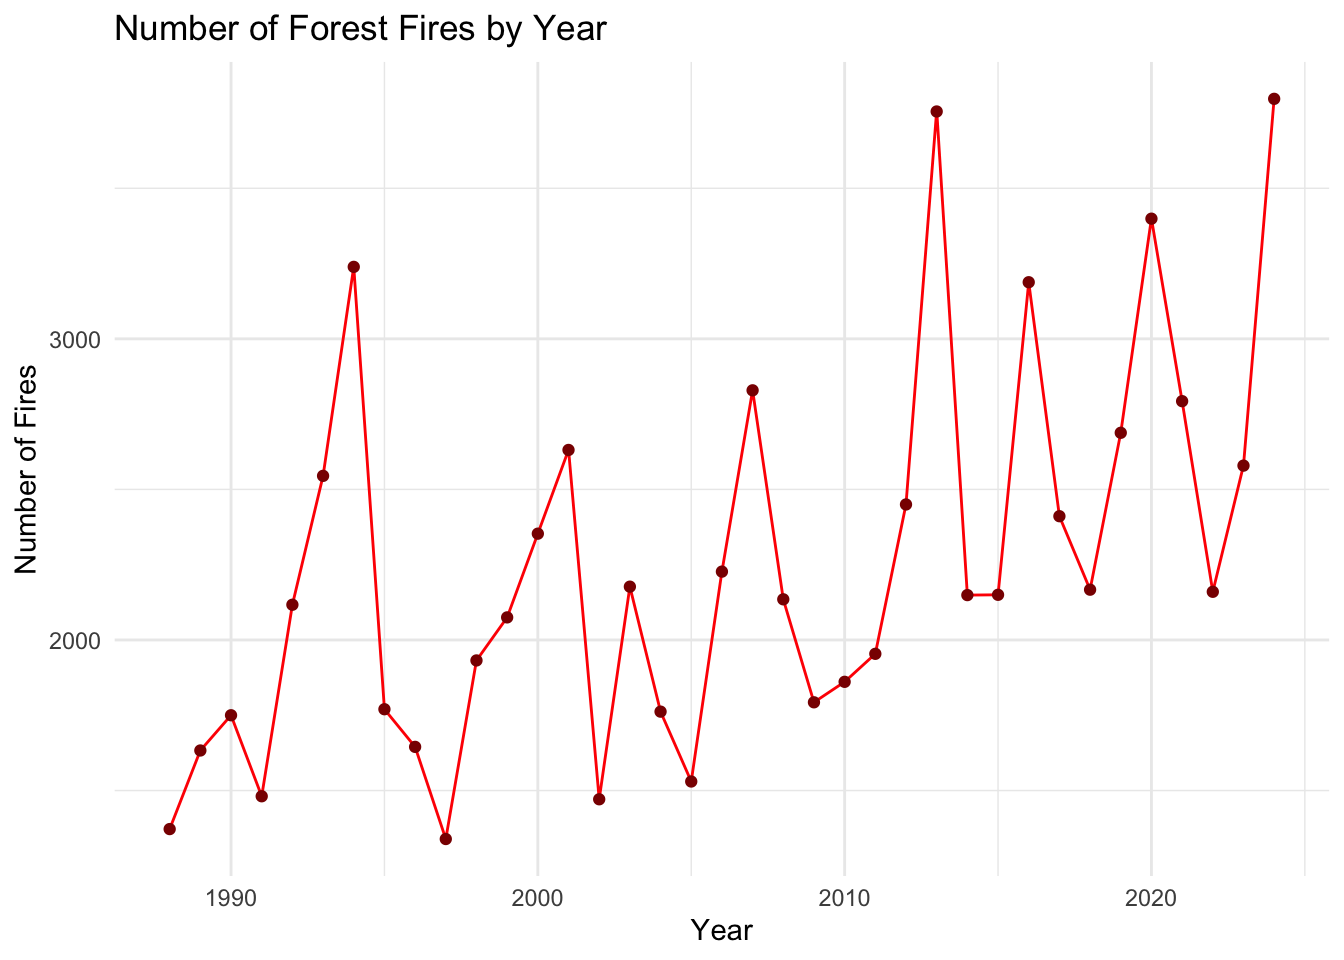
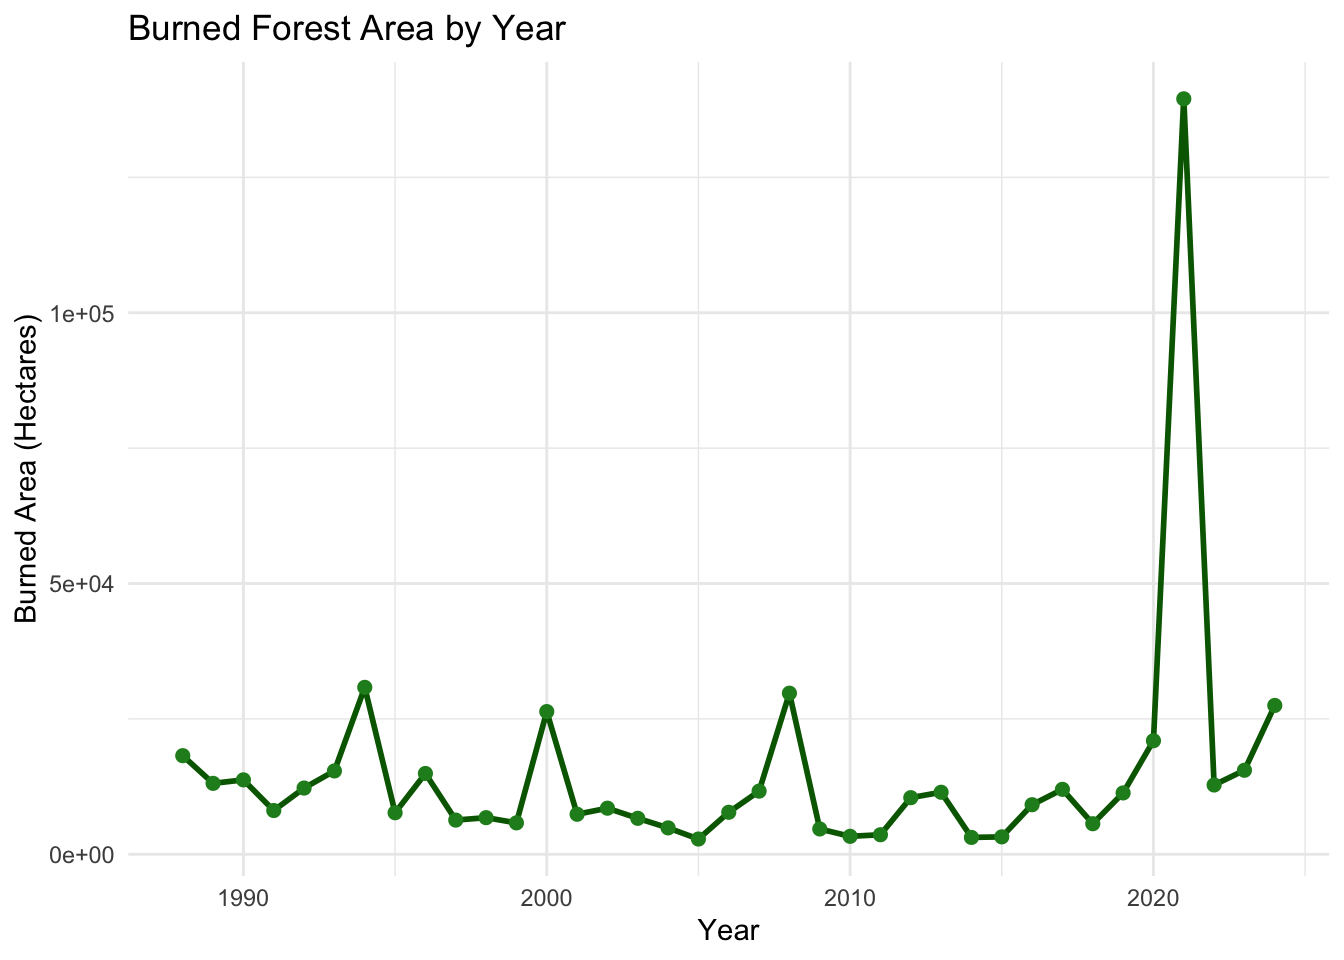
commit

diff --git a/docs/analysis.html b/docs/analysis.html
@@ -325,11 +325,13 @@ pre > code.sourceCode > span > a:first-child::before { text-decoration: underlin
   <li><a href="#analysis-of-forest-fires-in-turkey" id="toc-analysis-of-forest-fires-in-turkey" class="nav-link active" data-scroll-target="#analysis-of-forest-fires-in-turkey">Analysis of Forest Fires in Turkey</a></li>
   <li><a href="#key-takeaways" id="toc-key-takeaways" class="nav-link" data-scroll-target="#key-takeaways">Key Takeaways</a></li>
   <li><a href="#load-libraries" id="toc-load-libraries" class="nav-link" data-scroll-target="#load-libraries">Load Libraries</a></li>
-  <li><a href="#import-dataset" id="toc-import-dataset" class="nav-link" data-scroll-target="#import-dataset">Import Dataset</a></li>
-  <li><a href="#rename-columns" id="toc-rename-columns" class="nav-link" data-scroll-target="#rename-columns">Rename Columns</a></li>
+  <li><a href="#import-and-clean-dataset" id="toc-import-and-clean-dataset" class="nav-link" data-scroll-target="#import-and-clean-dataset">Import and Clean Dataset</a></li>
   <li><a href="#number-of-forest-fires-by-year" id="toc-number-of-forest-fires-by-year" class="nav-link" data-scroll-target="#number-of-forest-fires-by-year">Number of Forest Fires by Year</a></li>
   <li><a href="#burned-forest-area-by-year" id="toc-burned-forest-area-by-year" class="nav-link" data-scroll-target="#burned-forest-area-by-year">Burned Forest Area by Year</a></li>
   <li><a href="#relationship-between-fire-numbers-and-burned-area" id="toc-relationship-between-fire-numbers-and-burned-area" class="nav-link" data-scroll-target="#relationship-between-fire-numbers-and-burned-area">Relationship Between Fire Numbers and Burned Area</a></li>
+  <li><a href="#fire-causes-analysis" id="toc-fire-causes-analysis" class="nav-link" data-scroll-target="#fire-causes-analysis">Fire Causes Analysis</a></li>
+  <li><a href="#burned-area-by-fire-cause" id="toc-burned-area-by-fire-cause" class="nav-link" data-scroll-target="#burned-area-by-fire-cause">Burned Area by Fire Cause</a></li>
+  <li><a href="#top-10-years-with-highest-burned-area" id="toc-top-10-years-with-highest-burned-area" class="nav-link" data-scroll-target="#top-10-years-with-highest-burned-area">Top 10 Years with Highest Burned Area</a></li>
   <li><a href="#conclusion" id="toc-conclusion" class="nav-link" data-scroll-target="#conclusion">Conclusion</a></li>
   </ul>
 </nav>
@@ -369,8 +371,9 @@ pre > code.sourceCode > span > a:first-child::before { text-decoration: underlin
 <h1>Key Takeaways</h1>
 <ul>
 <li>Forest fires in Turkey fluctuate significantly over time.</li>
-<li>Certain years experienced extremely high burned forest areas.</li>
+<li>Some years experienced extremely high burned forest areas.</li>
 <li>Burned areas and fire frequency do not always increase together.</li>
+<li>Negligence-related fires constitute a major proportion of forest fire causes.</li>
 <li>Forest fires remain an important environmental issue in Turkey.</li>
 </ul>
 </section>
@@ -410,54 +413,62 @@ The following objects are masked from 'package:stats':
 </div>
 </div>
 </section>
-<section id="import-dataset" class="level1">
-<h1>Import Dataset</h1>
+<section id="import-and-clean-dataset" class="level1">
+<h1>Import and Clean Dataset</h1>
 <div class="cell">
 <details class="code-fold">
 <summary>Code</summary>
 <div class="code-copy-outer-scaffold"><div class="sourceCode cell-code" id="cb5"><pre class="sourceCode r code-with-copy"><code class="sourceCode r"><span id="cb5-1"><a href="#cb5-1" aria-hidden="true" tabindex="-1"></a>fires <span class="ot">&lt;-</span> <span class="fu">read_excel</span>(<span class="st">"forest_fires.xlsx"</span>) <span class="sc">%&gt;%</span></span>
-<span id="cb5-2"><a href="#cb5-2" aria-hidden="true" tabindex="-1"></a>  <span class="fu">clean_names</span>()</span>
-<span id="cb5-3"><a href="#cb5-3" aria-hidden="true" tabindex="-1"></a></span>
-<span id="cb5-4"><a href="#cb5-4" aria-hidden="true" tabindex="-1"></a><span class="fu">names</span>(fires)</span></code></pre></div><button title="Copy to Clipboard" class="code-copy-button"><i class="bi"></i></button></div>
-</details>
-<div class="cell-output cell-output-stdout">
-<pre><code>[1] "year"            "burned_area"     "number_of_fires"</code></pre>
-</div>
-</div>
-</section>
-<section id="rename-columns" class="level1">
-<h1>Rename Columns</h1>
-<div class="cell">
-<details class="code-fold">
-<summary>Code</summary>
-<div class="code-copy-outer-scaffold"><div class="sourceCode cell-code" id="cb7"><pre class="sourceCode r code-with-copy"><code class="sourceCode r"><span id="cb7-1"><a href="#cb7-1" aria-hidden="true" tabindex="-1"></a>fires <span class="ot">&lt;-</span> fires <span class="sc">%&gt;%</span></span>
-<span id="cb7-2"><a href="#cb7-2" aria-hidden="true" tabindex="-1"></a>  <span class="fu">rename</span>(</span>
-<span id="cb7-3"><a href="#cb7-3" aria-hidden="true" tabindex="-1"></a>    <span class="at">year =</span> <span class="dv">1</span>,</span>
-<span id="cb7-4"><a href="#cb7-4" aria-hidden="true" tabindex="-1"></a>    <span class="at">burned_area =</span> <span class="dv">2</span>,</span>
-<span id="cb7-5"><a href="#cb7-5" aria-hidden="true" tabindex="-1"></a>    <span class="at">number_of_fires =</span> <span class="dv">3</span></span>
-<span id="cb7-6"><a href="#cb7-6" aria-hidden="true" tabindex="-1"></a>  )</span>
-<span id="cb7-7"><a href="#cb7-7" aria-hidden="true" tabindex="-1"></a></span>
-<span id="cb7-8"><a href="#cb7-8" aria-hidden="true" tabindex="-1"></a><span class="fu">glimpse</span>(fires)</span></code></pre></div><button title="Copy to Clipboard" class="code-copy-button"><i class="bi"></i></button></div>
+<span id="cb5-2"><a href="#cb5-2" aria-hidden="true" tabindex="-1"></a>  <span class="fu">clean_names</span>() <span class="sc">%&gt;%</span></span>
+<span id="cb5-3"><a href="#cb5-3" aria-hidden="true" tabindex="-1"></a>  <span class="fu">mutate</span>(<span class="fu">across</span>(<span class="fu">everything</span>(), <span class="sc">~</span><span class="fu">na_if</span>(<span class="fu">as.character</span>(.), <span class="st">"-"</span>))) <span class="sc">%&gt;%</span></span>
+<span id="cb5-4"><a href="#cb5-4" aria-hidden="true" tabindex="-1"></a>  <span class="fu">mutate</span>(<span class="fu">across</span>(<span class="fu">everything</span>(), <span class="sc">~</span><span class="fu">as.numeric</span>(<span class="fu">gsub</span>(<span class="st">","</span>, <span class="st">"."</span>, .))))</span>
+<span id="cb5-5"><a href="#cb5-5" aria-hidden="true" tabindex="-1"></a></span>
+<span id="cb5-6"><a href="#cb5-6" aria-hidden="true" tabindex="-1"></a><span class="fu">glimpse</span>(fires)</span></code></pre></div><button title="Copy to Clipboard" class="code-copy-button"><i class="bi"></i></button></div>
 </details>
 <div class="cell-output cell-output-stdout">
 <pre><code>Rows: 37
-Columns: 3
-$ year            &lt;dbl&gt; 1988, 1989, 1990, 1991, 1992, 1993, 1994, 1995, 1996, …
-$ burned_area     &lt;dbl&gt; 18210.0, 13099.0, 13742.0, 8081.0, 12232.0, 15393.0, 3…
-$ number_of_fires &lt;dbl&gt; 1372, 1633, 1750, 1481, 2117, 2545, 3239, 1770, 1645, …</code></pre>
+Columns: 11
+$ year                &lt;dbl&gt; 1988, 1989, 1990, 1991, 1992, 1993, 1994, 1995, 19…
+$ burned_area         &lt;dbl&gt; 18210.0, 13099.0, 13742.0, 8081.0, 12232.0, 15393.…
+$ number_of_fires     &lt;dbl&gt; 1372, 1633, 1750, 1481, 2117, 2545, 3239, 1770, 16…
+$ intentional_number  &lt;dbl&gt; NA, NA, NA, NA, NA, NA, NA, NA, NA, 193, 249, 279,…
+$ intentional_hectare &lt;dbl&gt; NA, NA, NA, NA, NA, NA, NA, NA, NA, 923.00, 1655.0…
+$ negligence_number   &lt;dbl&gt; NA, NA, NA, NA, NA, NA, NA, NA, NA, 696, 1163, 115…
+$ negligence_hectare  &lt;dbl&gt; NA, NA, NA, NA, NA, NA, NA, NA, NA, 3389, 3713, 28…
+$ natural_number      &lt;dbl&gt; NA, NA, NA, NA, NA, NA, NA, NA, NA, 78, 53, 203, 1…
+$ natural_hecatre     &lt;dbl&gt; NA, NA, NA, NA, NA, NA, NA, NA, NA, 37.0, 20.0, 12…
+$ unknown_number      &lt;dbl&gt; NA, NA, NA, NA, NA, NA, NA, NA, NA, 372, 467, 442,…
+$ unknown_hectare     &lt;dbl&gt; NA, NA, NA, NA, NA, NA, NA, NA, NA, 1968.0, 1376.0…</code></pre>
 </div>
 <details class="code-fold">
 <summary>Code</summary>
-<div class="code-copy-outer-scaffold"><div class="sourceCode cell-code" id="cb9"><pre class="sourceCode r code-with-copy"><code class="sourceCode r"><span id="cb9-1"><a href="#cb9-1" aria-hidden="true" tabindex="-1"></a><span class="fu">summary</span>(fires)</span></code></pre></div><button title="Copy to Clipboard" class="code-copy-button"><i class="bi"></i></button></div>
+<div class="code-copy-outer-scaffold"><div class="sourceCode cell-code" id="cb7"><pre class="sourceCode r code-with-copy"><code class="sourceCode r"><span id="cb7-1"><a href="#cb7-1" aria-hidden="true" tabindex="-1"></a><span class="fu">summary</span>(fires)</span></code></pre></div><button title="Copy to Clipboard" class="code-copy-button"><i class="bi"></i></button></div>
 </details>
 <div class="cell-output cell-output-stdout">
-<pre><code>      year       burned_area     number_of_fires
- Min.   :1988   Min.   :  2821   Min.   :1339   
- 1st Qu.:1997   1st Qu.:  6317   1st Qu.:1770   
- Median :2006   Median : 10454   Median :2150   
- Mean   :2006   Mean   : 14949   Mean   :2252   
- 3rd Qu.:2015   3rd Qu.: 14922   3rd Qu.:2579   
- Max.   :2024   Max.   :139503   Max.   :3797   </code></pre>
+<pre><code>      year       burned_area     number_of_fires intentional_number
+ Min.   :1988   Min.   :  2821   Min.   :1339    Min.   : 72.0     
+ 1st Qu.:1997   1st Qu.:  6317   1st Qu.:1770    1st Qu.:127.0     
+ Median :2006   Median : 10454   Median :2150    Median :179.5     
+ Mean   :2006   Mean   : 14949   Mean   :2252    Mean   :195.4     
+ 3rd Qu.:2015   3rd Qu.: 14922   3rd Qu.:2579    3rd Qu.:252.8     
+ Max.   :2024   Max.   :139503   Max.   :3797    Max.   :410.0     
+                                                 NA's   :9         
+ intentional_hectare negligence_number negligence_hectare natural_number 
+ Min.   :   85.0     Min.   : 693.0    Min.   : 1198      Min.   : 53.0  
+ 1st Qu.:  372.0     1st Qu.: 853.2    1st Qu.: 3014      1st Qu.:170.8  
+ Median :  675.5     Median :1009.5    Median : 4871      Median :295.5  
+ Mean   : 2632.7     Mean   :1073.3    Mean   : 7971      Mean   :276.9  
+ 3rd Qu.: 1512.6     3rd Qu.:1201.0    3rd Qu.: 7464      3rd Qu.:354.2  
+ Max.   :46147.0     Max.   :1860.0    Max.   :46879      Max.   :726.0  
+ NA's   :9           NA's   :9         NA's   :9          NA's   :9      
+ natural_hecatre  unknown_number   unknown_hectare  
+ Min.   : 20.00   Min.   : 251.0   Min.   :  287.8  
+ 1st Qu.: 92.25   1st Qu.: 424.2   1st Qu.:  938.5  
+ Median :183.50   Median : 588.5   Median : 1864.5  
+ Mean   :266.11   Mean   : 802.9   Mean   : 4091.5  
+ 3rd Qu.:367.00   3rd Qu.: 997.8   3rd Qu.: 3305.8  
+ Max.   :735.00   Max.   :1859.0   Max.   :46269.0  
+ NA's   :9        NA's   :9        NA's   :9        </code></pre>
 </div>
 </div>
 </section>
@@ -466,15 +477,40 @@ $ number_of_fires &lt;dbl&gt; 1372, 1633, 1750, 1481, 2117, 2545, 3239, 1770, 16
 <div class="cell">
 <details class="code-fold">
 <summary>Code</summary>
-<div class="code-copy-outer-scaffold"><div class="sourceCode cell-code" id="cb11"><pre class="sourceCode r code-with-copy"><code class="sourceCode r"><span id="cb11-1"><a href="#cb11-1" aria-hidden="true" tabindex="-1"></a><span class="fu">ggplot</span>(fires, <span class="fu">aes</span>(<span class="at">x =</span> year, <span class="at">y =</span> number_of_fires)) <span class="sc">+</span></span>
-<span id="cb11-2"><a href="#cb11-2" aria-hidden="true" tabindex="-1"></a>  <span class="fu">geom_line</span>(<span class="at">color =</span> <span class="st">"red"</span>) <span class="sc">+</span></span>
-<span id="cb11-3"><a href="#cb11-3" aria-hidden="true" tabindex="-1"></a>  <span class="fu">geom_point</span>(<span class="at">color =</span> <span class="st">"darkred"</span>) <span class="sc">+</span></span>
-<span id="cb11-4"><a href="#cb11-4" aria-hidden="true" tabindex="-1"></a>  <span class="fu">labs</span>(</span>
-<span id="cb11-5"><a href="#cb11-5" aria-hidden="true" tabindex="-1"></a>    <span class="at">title =</span> <span class="st">"Number of Forest Fires by Year"</span>,</span>
-<span id="cb11-6"><a href="#cb11-6" aria-hidden="true" tabindex="-1"></a>    <span class="at">x =</span> <span class="st">"Year"</span>,</span>
-<span id="cb11-7"><a href="#cb11-7" aria-hidden="true" tabindex="-1"></a>    <span class="at">y =</span> <span class="st">"Number of Fires"</span></span>
-<span id="cb11-8"><a href="#cb11-8" aria-hidden="true" tabindex="-1"></a>  ) <span class="sc">+</span></span>
-<span id="cb11-9"><a href="#cb11-9" aria-hidden="true" tabindex="-1"></a>  <span class="fu">theme_minimal</span>()</span></code></pre></div><button title="Copy to Clipboard" class="code-copy-button"><i class="bi"></i></button></div>
+<div class="code-copy-outer-scaffold"><div class="sourceCode cell-code" id="cb9"><pre class="sourceCode r code-with-copy"><code class="sourceCode r"><span id="cb9-1"><a href="#cb9-1" aria-hidden="true" tabindex="-1"></a><span class="fu">ggplot</span>(fires, <span class="fu">aes</span>(<span class="at">x =</span> year, <span class="at">y =</span> number_of_fires)) <span class="sc">+</span></span>
+<span id="cb9-2"><a href="#cb9-2" aria-hidden="true" tabindex="-1"></a>  <span class="fu">geom_line</span>(<span class="at">color =</span> <span class="st">"red"</span>, <span class="at">linewidth =</span> <span class="dv">1</span>) <span class="sc">+</span></span>
+<span id="cb9-3"><a href="#cb9-3" aria-hidden="true" tabindex="-1"></a>  <span class="fu">geom_point</span>(<span class="at">color =</span> <span class="st">"darkred"</span>, <span class="at">size =</span> <span class="dv">2</span>) <span class="sc">+</span></span>
+<span id="cb9-4"><a href="#cb9-4" aria-hidden="true" tabindex="-1"></a>  <span class="fu">labs</span>(</span>
+<span id="cb9-5"><a href="#cb9-5" aria-hidden="true" tabindex="-1"></a>    <span class="at">title =</span> <span class="st">"Number of Forest Fires by Year"</span>,</span>
+<span id="cb9-6"><a href="#cb9-6" aria-hidden="true" tabindex="-1"></a>    <span class="at">x =</span> <span class="st">"Year"</span>,</span>
+<span id="cb9-7"><a href="#cb9-7" aria-hidden="true" tabindex="-1"></a>    <span class="at">y =</span> <span class="st">"Number of Fires"</span></span>
+<span id="cb9-8"><a href="#cb9-8" aria-hidden="true" tabindex="-1"></a>  ) <span class="sc">+</span></span>
+<span id="cb9-9"><a href="#cb9-9" aria-hidden="true" tabindex="-1"></a>  <span class="fu">theme_minimal</span>()</span></code></pre></div><button title="Copy to Clipboard" class="code-copy-button"><i class="bi"></i></button></div>
+</details>
+<div class="cell-output-display">
+<div>
+<figure class="figure">
+<p><img src="analysis_files/figure-html/unnamed-chunk-3-1.png" class="img-fluid figure-img" width="672"></p>
+</figure>
+</div>
+</div>
+</div>
+<p>The number of forest fires fluctuates considerably across years.</p>
+</section>
+<section id="burned-forest-area-by-year" class="level1">
+<h1>Burned Forest Area by Year</h1>
+<div class="cell">
+<details class="code-fold">
+<summary>Code</summary>
+<div class="code-copy-outer-scaffold"><div class="sourceCode cell-code" id="cb10"><pre class="sourceCode r code-with-copy"><code class="sourceCode r"><span id="cb10-1"><a href="#cb10-1" aria-hidden="true" tabindex="-1"></a><span class="fu">ggplot</span>(fires, <span class="fu">aes</span>(<span class="at">x =</span> year, <span class="at">y =</span> burned_area)) <span class="sc">+</span></span>
+<span id="cb10-2"><a href="#cb10-2" aria-hidden="true" tabindex="-1"></a>  <span class="fu">geom_line</span>(<span class="at">color =</span> <span class="st">"darkgreen"</span>, <span class="at">linewidth =</span> <span class="dv">1</span>) <span class="sc">+</span></span>
+<span id="cb10-3"><a href="#cb10-3" aria-hidden="true" tabindex="-1"></a>  <span class="fu">geom_point</span>(<span class="at">color =</span> <span class="st">"forestgreen"</span>, <span class="at">size =</span> <span class="dv">2</span>) <span class="sc">+</span></span>
+<span id="cb10-4"><a href="#cb10-4" aria-hidden="true" tabindex="-1"></a>  <span class="fu">labs</span>(</span>
+<span id="cb10-5"><a href="#cb10-5" aria-hidden="true" tabindex="-1"></a>    <span class="at">title =</span> <span class="st">"Burned Forest Area by Year"</span>,</span>
+<span id="cb10-6"><a href="#cb10-6" aria-hidden="true" tabindex="-1"></a>    <span class="at">x =</span> <span class="st">"Year"</span>,</span>
+<span id="cb10-7"><a href="#cb10-7" aria-hidden="true" tabindex="-1"></a>    <span class="at">y =</span> <span class="st">"Burned Area (Hectares)"</span></span>
+<span id="cb10-8"><a href="#cb10-8" aria-hidden="true" tabindex="-1"></a>  ) <span class="sc">+</span></span>
+<span id="cb10-9"><a href="#cb10-9" aria-hidden="true" tabindex="-1"></a>  <span class="fu">theme_minimal</span>()</span></code></pre></div><button title="Copy to Clipboard" class="code-copy-button"><i class="bi"></i></button></div>
 </details>
 <div class="cell-output-display">
 <div>
@@ -484,22 +520,21 @@ $ number_of_fires &lt;dbl&gt; 1372, 1633, 1750, 1481, 2117, 2545, 3239, 1770, 16
 </div>
 </div>
 </div>
-<p>The graph shows yearly fluctuations in the number of forest fires in Turkey.</p>
+<p>The burned forest area changes significantly across years. The year 2021 stands out as an extreme year.</p>
 </section>
-<section id="burned-forest-area-by-year" class="level1">
-<h1>Burned Forest Area by Year</h1>
+<section id="relationship-between-fire-numbers-and-burned-area" class="level1">
+<h1>Relationship Between Fire Numbers and Burned Area</h1>
 <div class="cell">
 <details class="code-fold">
 <summary>Code</summary>
-<div class="code-copy-outer-scaffold"><div class="sourceCode cell-code" id="cb12"><pre class="sourceCode r code-with-copy"><code class="sourceCode r"><span id="cb12-1"><a href="#cb12-1" aria-hidden="true" tabindex="-1"></a><span class="fu">ggplot</span>(fires, <span class="fu">aes</span>(<span class="at">x =</span> year, <span class="at">y =</span> burned_area)) <span class="sc">+</span></span>
-<span id="cb12-2"><a href="#cb12-2" aria-hidden="true" tabindex="-1"></a>  <span class="fu">geom_line</span>(<span class="at">color =</span> <span class="st">"darkgreen"</span>) <span class="sc">+</span></span>
-<span id="cb12-3"><a href="#cb12-3" aria-hidden="true" tabindex="-1"></a>  <span class="fu">geom_point</span>(<span class="at">color =</span> <span class="st">"forestgreen"</span>) <span class="sc">+</span></span>
-<span id="cb12-4"><a href="#cb12-4" aria-hidden="true" tabindex="-1"></a>  <span class="fu">labs</span>(</span>
-<span id="cb12-5"><a href="#cb12-5" aria-hidden="true" tabindex="-1"></a>    <span class="at">title =</span> <span class="st">"Burned Forest Area by Year"</span>,</span>
-<span id="cb12-6"><a href="#cb12-6" aria-hidden="true" tabindex="-1"></a>    <span class="at">x =</span> <span class="st">"Year"</span>,</span>
-<span id="cb12-7"><a href="#cb12-7" aria-hidden="true" tabindex="-1"></a>    <span class="at">y =</span> <span class="st">"Burned Area"</span></span>
-<span id="cb12-8"><a href="#cb12-8" aria-hidden="true" tabindex="-1"></a>  ) <span class="sc">+</span></span>
-<span id="cb12-9"><a href="#cb12-9" aria-hidden="true" tabindex="-1"></a>  <span class="fu">theme_minimal</span>()</span></code></pre></div><button title="Copy to Clipboard" class="code-copy-button"><i class="bi"></i></button></div>
+<div class="code-copy-outer-scaffold"><div class="sourceCode cell-code" id="cb11"><pre class="sourceCode r code-with-copy"><code class="sourceCode r"><span id="cb11-1"><a href="#cb11-1" aria-hidden="true" tabindex="-1"></a><span class="fu">ggplot</span>(fires, <span class="fu">aes</span>(<span class="at">x =</span> number_of_fires, <span class="at">y =</span> burned_area)) <span class="sc">+</span></span>
+<span id="cb11-2"><a href="#cb11-2" aria-hidden="true" tabindex="-1"></a>  <span class="fu">geom_point</span>(<span class="at">color =</span> <span class="st">"orange"</span>, <span class="at">size =</span> <span class="dv">3</span>) <span class="sc">+</span></span>
+<span id="cb11-3"><a href="#cb11-3" aria-hidden="true" tabindex="-1"></a>  <span class="fu">labs</span>(</span>
+<span id="cb11-4"><a href="#cb11-4" aria-hidden="true" tabindex="-1"></a>    <span class="at">title =</span> <span class="st">"Relationship Between Fire Numbers and Burned Area"</span>,</span>
+<span id="cb11-5"><a href="#cb11-5" aria-hidden="true" tabindex="-1"></a>    <span class="at">x =</span> <span class="st">"Number of Fires"</span>,</span>
+<span id="cb11-6"><a href="#cb11-6" aria-hidden="true" tabindex="-1"></a>    <span class="at">y =</span> <span class="st">"Burned Area"</span></span>
+<span id="cb11-7"><a href="#cb11-7" aria-hidden="true" tabindex="-1"></a>  ) <span class="sc">+</span></span>
+<span id="cb11-8"><a href="#cb11-8" aria-hidden="true" tabindex="-1"></a>  <span class="fu">theme_minimal</span>()</span></code></pre></div><button title="Copy to Clipboard" class="code-copy-button"><i class="bi"></i></button></div>
 </details>
 <div class="cell-output-display">
 <div>
@@ -509,21 +544,35 @@ $ number_of_fires &lt;dbl&gt; 1372, 1633, 1750, 1481, 2117, 2545, 3239, 1770, 16
 </div>
 </div>
 </div>
-<p>The burned forest area changes significantly across years.</p>
+<p>The relationship between the number of fires and burned area is not perfectly linear.</p>
 </section>
-<section id="relationship-between-fire-numbers-and-burned-area" class="level1">
-<h1>Relationship Between Fire Numbers and Burned Area</h1>
+<section id="fire-causes-analysis" class="level1">
+<h1>Fire Causes Analysis</h1>
 <div class="cell">
 <details class="code-fold">
 <summary>Code</summary>
-<div class="code-copy-outer-scaffold"><div class="sourceCode cell-code" id="cb13"><pre class="sourceCode r code-with-copy"><code class="sourceCode r"><span id="cb13-1"><a href="#cb13-1" aria-hidden="true" tabindex="-1"></a><span class="fu">ggplot</span>(fires, <span class="fu">aes</span>(<span class="at">x =</span> number_of_fires, <span class="at">y =</span> burned_area)) <span class="sc">+</span></span>
-<span id="cb13-2"><a href="#cb13-2" aria-hidden="true" tabindex="-1"></a>  <span class="fu">geom_point</span>(<span class="at">color =</span> <span class="st">"orange"</span>, <span class="at">size =</span> <span class="dv">3</span>) <span class="sc">+</span></span>
-<span id="cb13-3"><a href="#cb13-3" aria-hidden="true" tabindex="-1"></a>  <span class="fu">labs</span>(</span>
-<span id="cb13-4"><a href="#cb13-4" aria-hidden="true" tabindex="-1"></a>    <span class="at">title =</span> <span class="st">"Relationship Between Number of Fires and Burned Area"</span>,</span>
-<span id="cb13-5"><a href="#cb13-5" aria-hidden="true" tabindex="-1"></a>    <span class="at">x =</span> <span class="st">"Number of Fires"</span>,</span>
-<span id="cb13-6"><a href="#cb13-6" aria-hidden="true" tabindex="-1"></a>    <span class="at">y =</span> <span class="st">"Burned Area"</span></span>
-<span id="cb13-7"><a href="#cb13-7" aria-hidden="true" tabindex="-1"></a>  ) <span class="sc">+</span></span>
-<span id="cb13-8"><a href="#cb13-8" aria-hidden="true" tabindex="-1"></a>  <span class="fu">theme_minimal</span>()</span></code></pre></div><button title="Copy to Clipboard" class="code-copy-button"><i class="bi"></i></button></div>
+<div class="code-copy-outer-scaffold"><div class="sourceCode cell-code" id="cb12"><pre class="sourceCode r code-with-copy"><code class="sourceCode r"><span id="cb12-1"><a href="#cb12-1" aria-hidden="true" tabindex="-1"></a>causes <span class="ot">&lt;-</span> fires <span class="sc">%&gt;%</span></span>
+<span id="cb12-2"><a href="#cb12-2" aria-hidden="true" tabindex="-1"></a>  <span class="fu">summarise</span>(</span>
+<span id="cb12-3"><a href="#cb12-3" aria-hidden="true" tabindex="-1"></a>    <span class="at">Intentional =</span> <span class="fu">sum</span>(intentional_number, <span class="at">na.rm =</span> <span class="cn">TRUE</span>),</span>
+<span id="cb12-4"><a href="#cb12-4" aria-hidden="true" tabindex="-1"></a>    <span class="at">Negligence =</span> <span class="fu">sum</span>(negligence_number, <span class="at">na.rm =</span> <span class="cn">TRUE</span>),</span>
+<span id="cb12-5"><a href="#cb12-5" aria-hidden="true" tabindex="-1"></a>    <span class="at">Natural =</span> <span class="fu">sum</span>(natural_number, <span class="at">na.rm =</span> <span class="cn">TRUE</span>),</span>
+<span id="cb12-6"><a href="#cb12-6" aria-hidden="true" tabindex="-1"></a>    <span class="at">Unknown =</span> <span class="fu">sum</span>(unknown_number, <span class="at">na.rm =</span> <span class="cn">TRUE</span>)</span>
+<span id="cb12-7"><a href="#cb12-7" aria-hidden="true" tabindex="-1"></a>  ) <span class="sc">%&gt;%</span></span>
+<span id="cb12-8"><a href="#cb12-8" aria-hidden="true" tabindex="-1"></a>  <span class="fu">pivot_longer</span>(</span>
+<span id="cb12-9"><a href="#cb12-9" aria-hidden="true" tabindex="-1"></a>    <span class="at">cols =</span> <span class="fu">everything</span>(),</span>
+<span id="cb12-10"><a href="#cb12-10" aria-hidden="true" tabindex="-1"></a>    <span class="at">names_to =</span> <span class="st">"Cause"</span>,</span>
+<span id="cb12-11"><a href="#cb12-11" aria-hidden="true" tabindex="-1"></a>    <span class="at">values_to =</span> <span class="st">"Count"</span></span>
+<span id="cb12-12"><a href="#cb12-12" aria-hidden="true" tabindex="-1"></a>  )</span>
+<span id="cb12-13"><a href="#cb12-13" aria-hidden="true" tabindex="-1"></a></span>
+<span id="cb12-14"><a href="#cb12-14" aria-hidden="true" tabindex="-1"></a><span class="fu">ggplot</span>(causes, <span class="fu">aes</span>(<span class="at">x =</span> <span class="fu">reorder</span>(Cause, Count), <span class="at">y =</span> Count, <span class="at">fill =</span> Cause)) <span class="sc">+</span></span>
+<span id="cb12-15"><a href="#cb12-15" aria-hidden="true" tabindex="-1"></a>  <span class="fu">geom_col</span>() <span class="sc">+</span></span>
+<span id="cb12-16"><a href="#cb12-16" aria-hidden="true" tabindex="-1"></a>  <span class="fu">coord_flip</span>() <span class="sc">+</span></span>
+<span id="cb12-17"><a href="#cb12-17" aria-hidden="true" tabindex="-1"></a>  <span class="fu">labs</span>(</span>
+<span id="cb12-18"><a href="#cb12-18" aria-hidden="true" tabindex="-1"></a>    <span class="at">title =</span> <span class="st">"Total Forest Fires by Cause"</span>,</span>
+<span id="cb12-19"><a href="#cb12-19" aria-hidden="true" tabindex="-1"></a>    <span class="at">x =</span> <span class="st">"Cause"</span>,</span>
+<span id="cb12-20"><a href="#cb12-20" aria-hidden="true" tabindex="-1"></a>    <span class="at">y =</span> <span class="st">"Total Number of Fires"</span></span>
+<span id="cb12-21"><a href="#cb12-21" aria-hidden="true" tabindex="-1"></a>  ) <span class="sc">+</span></span>
+<span id="cb12-22"><a href="#cb12-22" aria-hidden="true" tabindex="-1"></a>  <span class="fu">theme_minimal</span>()</span></code></pre></div><button title="Copy to Clipboard" class="code-copy-button"><i class="bi"></i></button></div>
 </details>
 <div class="cell-output-display">
 <div>
@@ -533,11 +582,77 @@ $ number_of_fires &lt;dbl&gt; 1372, 1633, 1750, 1481, 2117, 2545, 3239, 1770, 16
 </div>
 </div>
 </div>
-<p>Some years experienced fewer fires but larger burned forest areas.</p>
+<p>Negligence-related fires represent one of the largest categories among forest fire causes.</p>
+</section>
+<section id="burned-area-by-fire-cause" class="level1">
+<h1>Burned Area by Fire Cause</h1>
+<div class="cell">
+<details class="code-fold">
+<summary>Code</summary>
+<div class="code-copy-outer-scaffold"><div class="sourceCode cell-code" id="cb13"><pre class="sourceCode r code-with-copy"><code class="sourceCode r"><span id="cb13-1"><a href="#cb13-1" aria-hidden="true" tabindex="-1"></a>hectares <span class="ot">&lt;-</span> fires <span class="sc">%&gt;%</span></span>
+<span id="cb13-2"><a href="#cb13-2" aria-hidden="true" tabindex="-1"></a>  <span class="fu">summarise</span>(</span>
+<span id="cb13-3"><a href="#cb13-3" aria-hidden="true" tabindex="-1"></a>    <span class="at">Intentional =</span> <span class="fu">sum</span>(intentional_hectare, <span class="at">na.rm =</span> <span class="cn">TRUE</span>),</span>
+<span id="cb13-4"><a href="#cb13-4" aria-hidden="true" tabindex="-1"></a>    <span class="at">Negligence =</span> <span class="fu">sum</span>(negligence_hectare, <span class="at">na.rm =</span> <span class="cn">TRUE</span>),</span>
+<span id="cb13-5"><a href="#cb13-5" aria-hidden="true" tabindex="-1"></a>    <span class="at">Natural =</span> <span class="fu">sum</span>(natural_hecatre, <span class="at">na.rm =</span> <span class="cn">TRUE</span>),</span>
+<span id="cb13-6"><a href="#cb13-6" aria-hidden="true" tabindex="-1"></a>    <span class="at">Unknown =</span> <span class="fu">sum</span>(unknown_hectare, <span class="at">na.rm =</span> <span class="cn">TRUE</span>)</span>
+<span id="cb13-7"><a href="#cb13-7" aria-hidden="true" tabindex="-1"></a>  ) <span class="sc">%&gt;%</span></span>
+<span id="cb13-8"><a href="#cb13-8" aria-hidden="true" tabindex="-1"></a>  <span class="fu">pivot_longer</span>(</span>
+<span id="cb13-9"><a href="#cb13-9" aria-hidden="true" tabindex="-1"></a>    <span class="at">cols =</span> <span class="fu">everything</span>(),</span>
+<span id="cb13-10"><a href="#cb13-10" aria-hidden="true" tabindex="-1"></a>    <span class="at">names_to =</span> <span class="st">"Cause"</span>,</span>
+<span id="cb13-11"><a href="#cb13-11" aria-hidden="true" tabindex="-1"></a>    <span class="at">values_to =</span> <span class="st">"Hectares"</span></span>
+<span id="cb13-12"><a href="#cb13-12" aria-hidden="true" tabindex="-1"></a>  )</span>
+<span id="cb13-13"><a href="#cb13-13" aria-hidden="true" tabindex="-1"></a></span>
+<span id="cb13-14"><a href="#cb13-14" aria-hidden="true" tabindex="-1"></a><span class="fu">ggplot</span>(hectares, <span class="fu">aes</span>(<span class="at">x =</span> <span class="fu">reorder</span>(Cause, Hectares), <span class="at">y =</span> Hectares, <span class="at">fill =</span> Cause)) <span class="sc">+</span></span>
+<span id="cb13-15"><a href="#cb13-15" aria-hidden="true" tabindex="-1"></a>  <span class="fu">geom_col</span>() <span class="sc">+</span></span>
+<span id="cb13-16"><a href="#cb13-16" aria-hidden="true" tabindex="-1"></a>  <span class="fu">coord_flip</span>() <span class="sc">+</span></span>
+<span id="cb13-17"><a href="#cb13-17" aria-hidden="true" tabindex="-1"></a>  <span class="fu">labs</span>(</span>
+<span id="cb13-18"><a href="#cb13-18" aria-hidden="true" tabindex="-1"></a>    <span class="at">title =</span> <span class="st">"Burned Area by Fire Cause"</span>,</span>
+<span id="cb13-19"><a href="#cb13-19" aria-hidden="true" tabindex="-1"></a>    <span class="at">x =</span> <span class="st">"Cause"</span>,</span>
+<span id="cb13-20"><a href="#cb13-20" aria-hidden="true" tabindex="-1"></a>    <span class="at">y =</span> <span class="st">"Burned Area"</span></span>
+<span id="cb13-21"><a href="#cb13-21" aria-hidden="true" tabindex="-1"></a>  ) <span class="sc">+</span></span>
+<span id="cb13-22"><a href="#cb13-22" aria-hidden="true" tabindex="-1"></a>  <span class="fu">theme_minimal</span>()</span></code></pre></div><button title="Copy to Clipboard" class="code-copy-button"><i class="bi"></i></button></div>
+</details>
+<div class="cell-output-display">
+<div>
+<figure class="figure">
+<p><img src="analysis_files/figure-html/unnamed-chunk-7-1.png" class="img-fluid figure-img" width="672"></p>
+</figure>
+</div>
+</div>
+</div>
+<p>Negligence-related fires account for a substantial proportion of total burned forest areas.</p>
+</section>
+<section id="top-10-years-with-highest-burned-area" class="level1">
+<h1>Top 10 Years with Highest Burned Area</h1>
+<div class="cell">
+<details class="code-fold">
+<summary>Code</summary>
+<div class="code-copy-outer-scaffold"><div class="sourceCode cell-code" id="cb14"><pre class="sourceCode r code-with-copy"><code class="sourceCode r"><span id="cb14-1"><a href="#cb14-1" aria-hidden="true" tabindex="-1"></a>fires <span class="sc">%&gt;%</span></span>
+<span id="cb14-2"><a href="#cb14-2" aria-hidden="true" tabindex="-1"></a>  <span class="fu">arrange</span>(<span class="fu">desc</span>(burned_area)) <span class="sc">%&gt;%</span></span>
+<span id="cb14-3"><a href="#cb14-3" aria-hidden="true" tabindex="-1"></a>  <span class="fu">slice</span>(<span class="dv">1</span><span class="sc">:</span><span class="dv">10</span>) <span class="sc">%&gt;%</span></span>
+<span id="cb14-4"><a href="#cb14-4" aria-hidden="true" tabindex="-1"></a>  <span class="fu">ggplot</span>(<span class="fu">aes</span>(<span class="at">x =</span> <span class="fu">reorder</span>(<span class="fu">as.factor</span>(year), burned_area), <span class="at">y =</span> burned_area)) <span class="sc">+</span></span>
+<span id="cb14-5"><a href="#cb14-5" aria-hidden="true" tabindex="-1"></a>  <span class="fu">geom_col</span>(<span class="at">fill =</span> <span class="st">"firebrick"</span>) <span class="sc">+</span></span>
+<span id="cb14-6"><a href="#cb14-6" aria-hidden="true" tabindex="-1"></a>  <span class="fu">coord_flip</span>() <span class="sc">+</span></span>
+<span id="cb14-7"><a href="#cb14-7" aria-hidden="true" tabindex="-1"></a>  <span class="fu">labs</span>(</span>
+<span id="cb14-8"><a href="#cb14-8" aria-hidden="true" tabindex="-1"></a>    <span class="at">title =</span> <span class="st">"Top 10 Years with Highest Burned Area"</span>,</span>
+<span id="cb14-9"><a href="#cb14-9" aria-hidden="true" tabindex="-1"></a>    <span class="at">x =</span> <span class="st">"Year"</span>,</span>
+<span id="cb14-10"><a href="#cb14-10" aria-hidden="true" tabindex="-1"></a>    <span class="at">y =</span> <span class="st">"Burned Area"</span></span>
+<span id="cb14-11"><a href="#cb14-11" aria-hidden="true" tabindex="-1"></a>  ) <span class="sc">+</span></span>
+<span id="cb14-12"><a href="#cb14-12" aria-hidden="true" tabindex="-1"></a>  <span class="fu">theme_minimal</span>()</span></code></pre></div><button title="Copy to Clipboard" class="code-copy-button"><i class="bi"></i></button></div>
+</details>
+<div class="cell-output-display">
+<div>
+<figure class="figure">
+<p><img src="analysis_files/figure-html/unnamed-chunk-8-1.png" class="img-fluid figure-img" width="672"></p>
+</figure>
+</div>
+</div>
+</div>
+<p>2021 appears as the most destructive year in terms of burned forest area.</p>
 </section>
 <section id="conclusion" class="level1">
 <h1>Conclusion</h1>
-<p>Forest fires continue to be an important environmental issue in Turkey. The analysis shows that both fire frequency and burned area vary considerably over time.</p>
+<p>Forest fires continue to be an important environmental issue in Turkey. The analysis shows that both fire frequency and burned area vary considerably over time. Human-related causes, especially negligence, play an important role in forest fire occurrence.</p>
 
 
 </section>